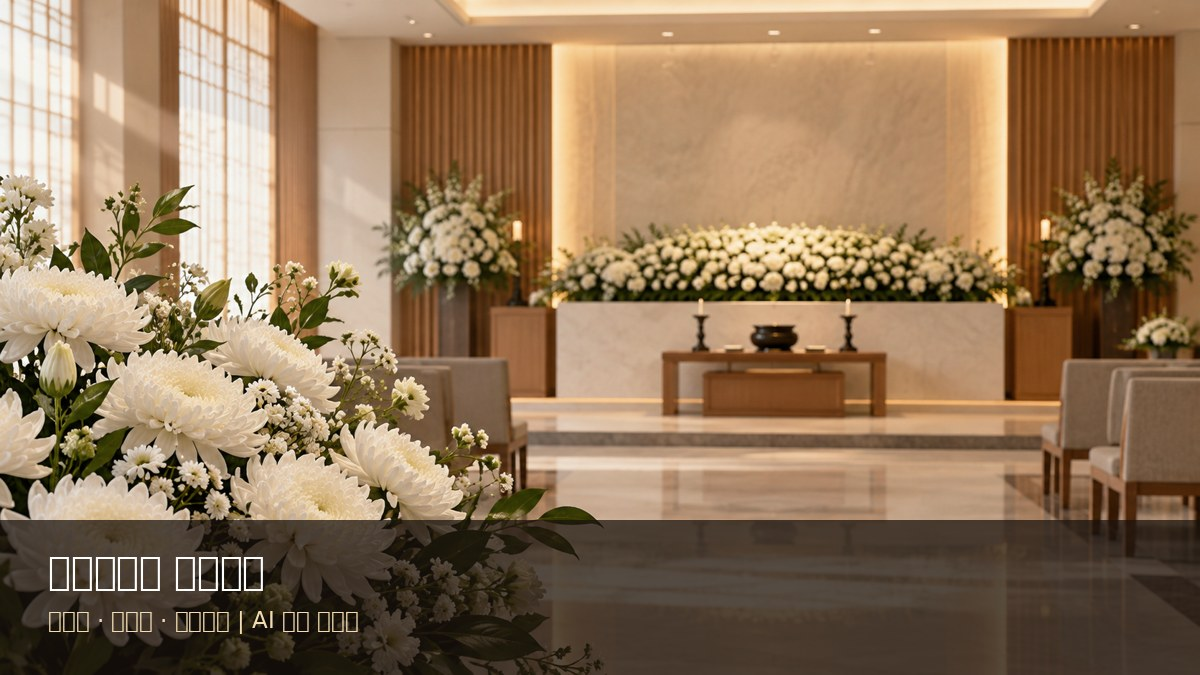
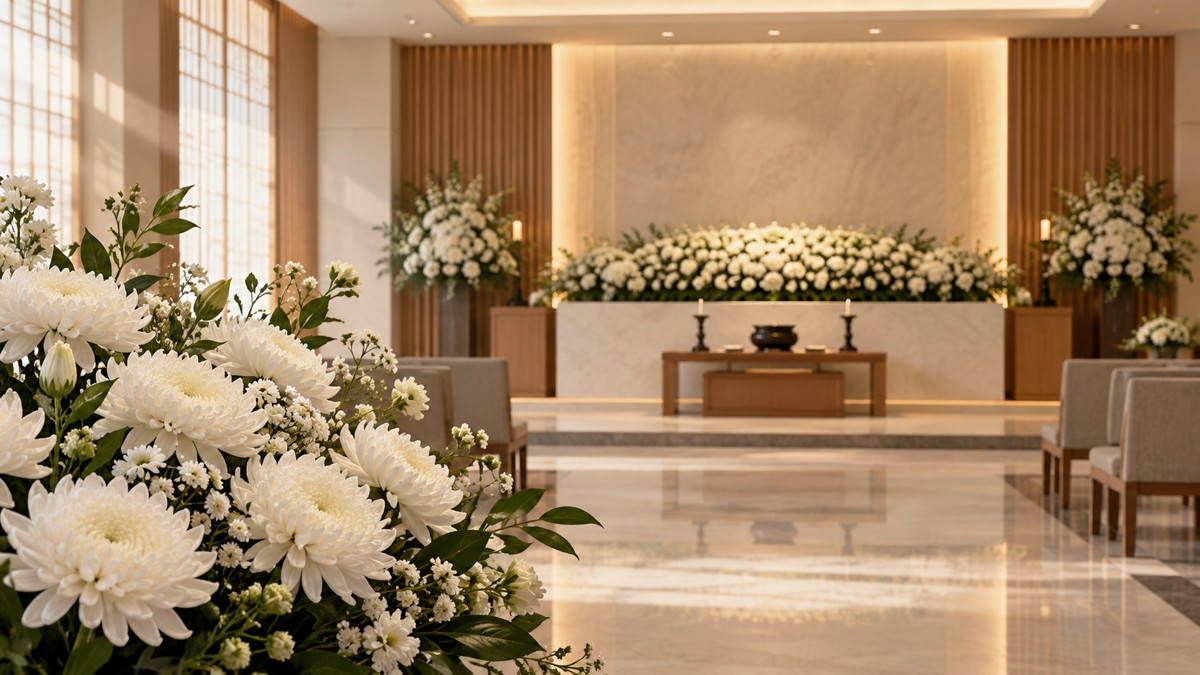
Fix Korean image glyphs and regional thumbnail assets

Changed region(s): [[0.0, 0.7467, 1.0, 1.0]]

diff --git a/scripts/generate_sigungu_pages.py b/scripts/generate_sigungu_pages.py
@@ -37,9 +37,8 @@ def image_for(prov, sigungu, path, idx):
     # Small deterministic crop/tonal variation keeps each regional asset distinct while preserving the scene.
     if idx%3==1: im=im.crop((12,0,1188,675)).resize((1200,675))
     elif idx%3==2: im=ImageEnhance.Color(im).enhance(0.92)
-    d=ImageDraw.Draw(im,'RGBA'); d.rectangle((0,520,1200,675),fill=(25,18,13,185))
-    title=f'{prov} 장례안내'; sub='가족장 · 무빈소 · 장례비용 | AI 연출 이미지'
-    d.text((48,548),title,font=font(38),fill='white'); d.text((48,606),sub,font=font(23),fill=(242,220,177))
+    # Keep the representative image free of rasterized Korean text.
+    # The page title and caption are rendered as HTML, preventing missing-glyph boxes.
     im.save(dest,'JPEG',quality=88,optimize=True)
     return f'{BASE}assets/regional/{dest.name}'
 
